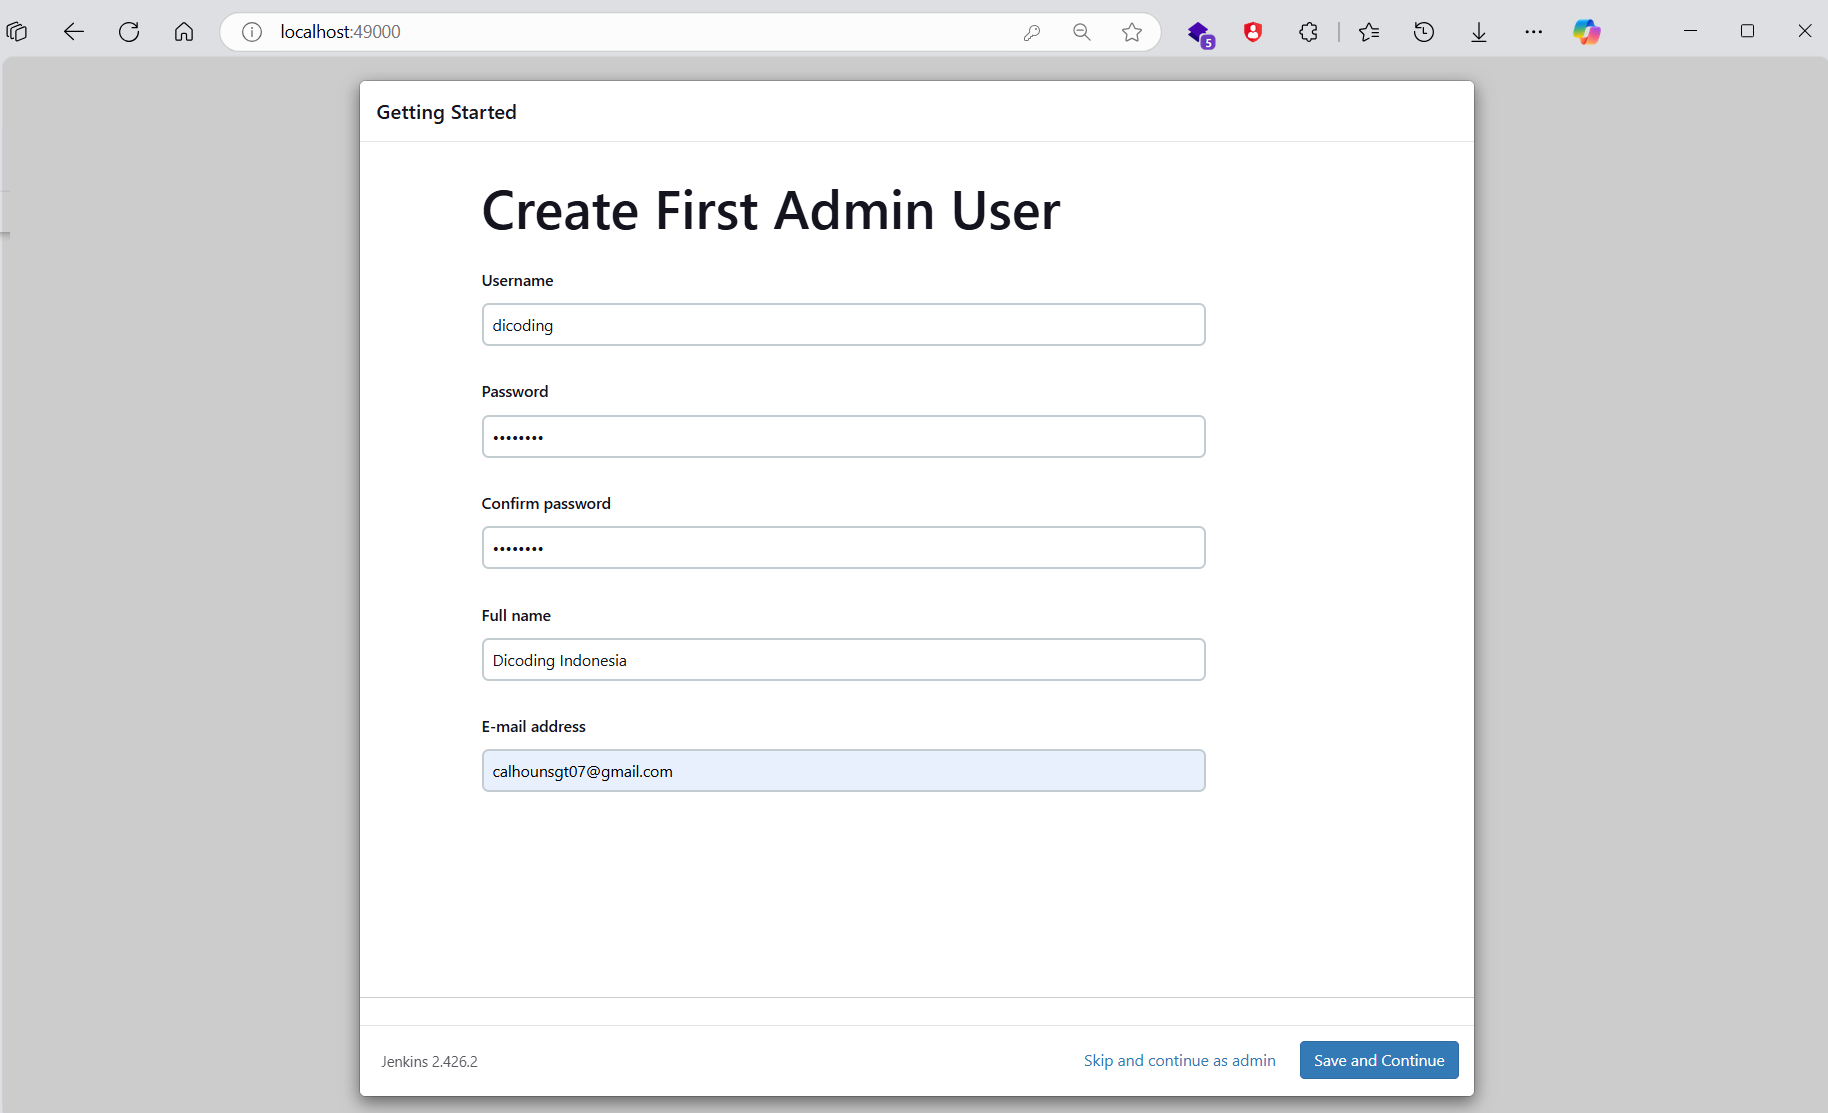
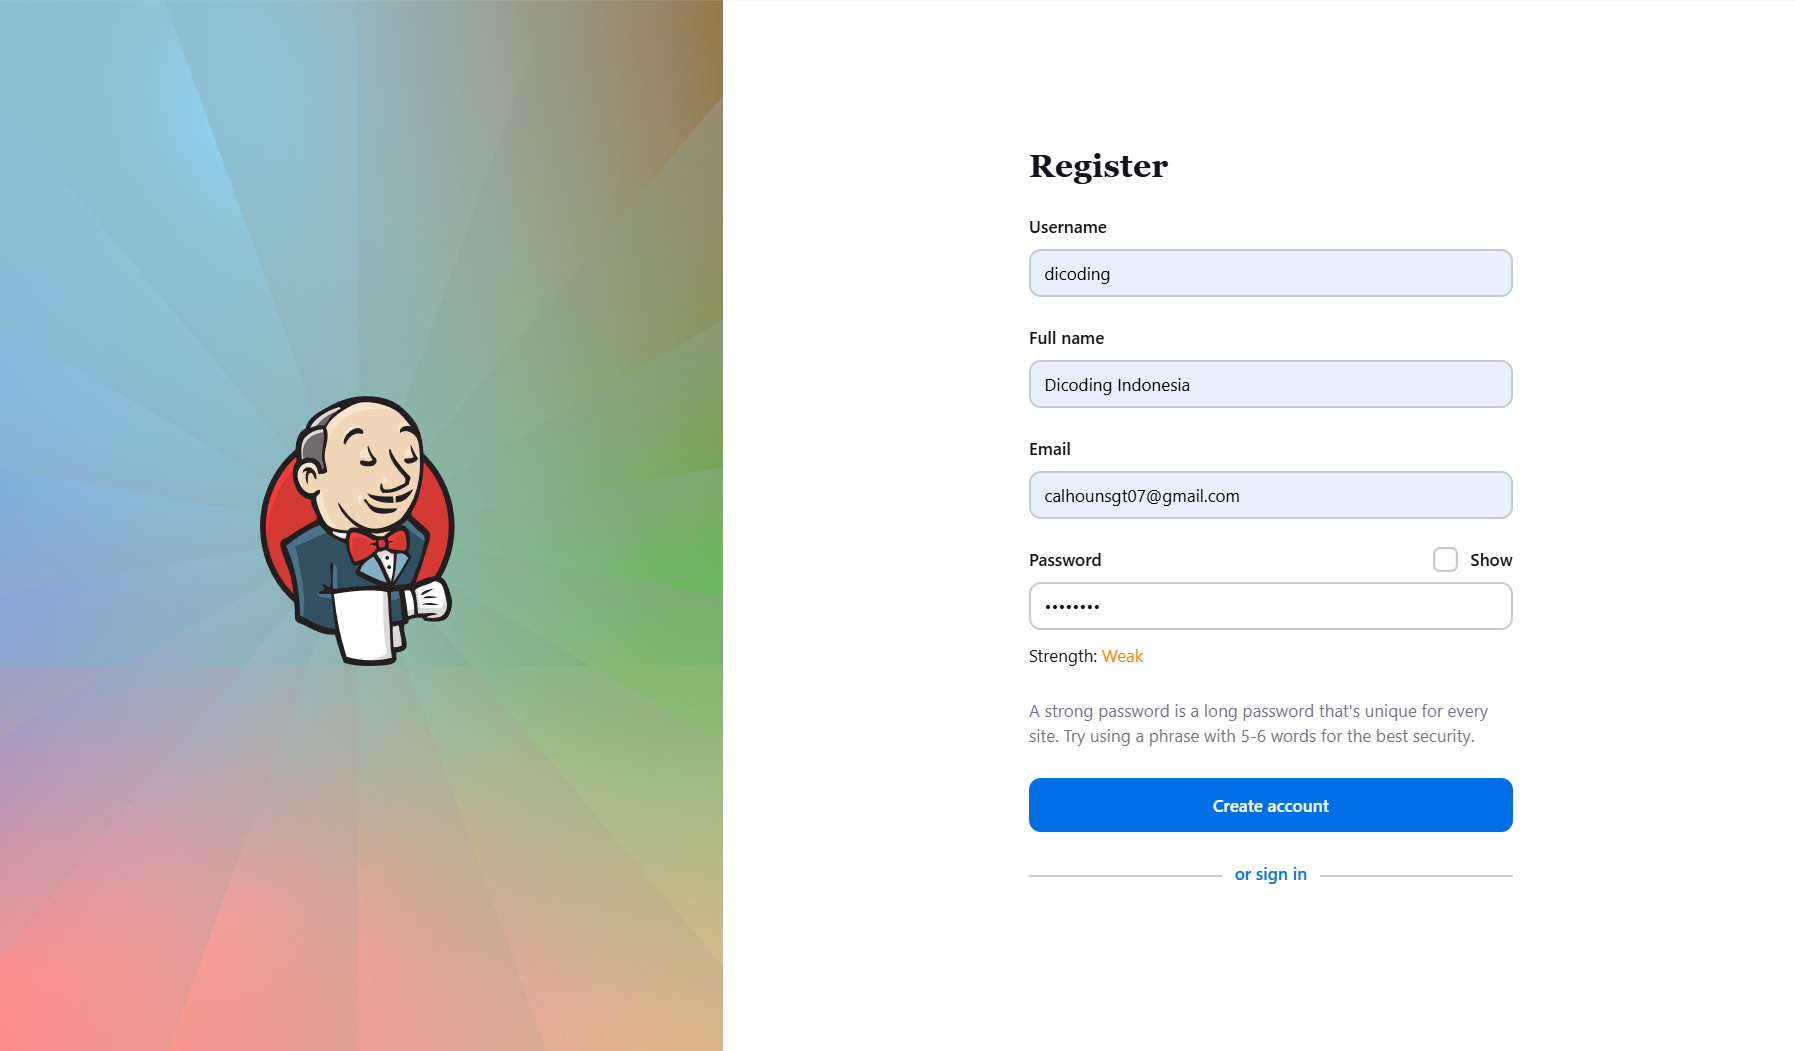
update

diff --git a/submission/03 - ci cd/submission 1/readme.md b/submission/03 - ci cd/submission 1/readme.md
@@ -102,6 +102,9 @@ docker restart jenkins-blueocean jenkins-docker
 ```
 
 ## images
+- fitur sign up
+  ![alt text](docs/images/image-8.png)
+  ![alt text](docs/images/image-9.png)
 - Tampilan halaman “Create an account!” di Jenkins.
   ![alt text](docs/images/image.png)
 - Tampilan halaman “Manage Users” di Jenkins.
